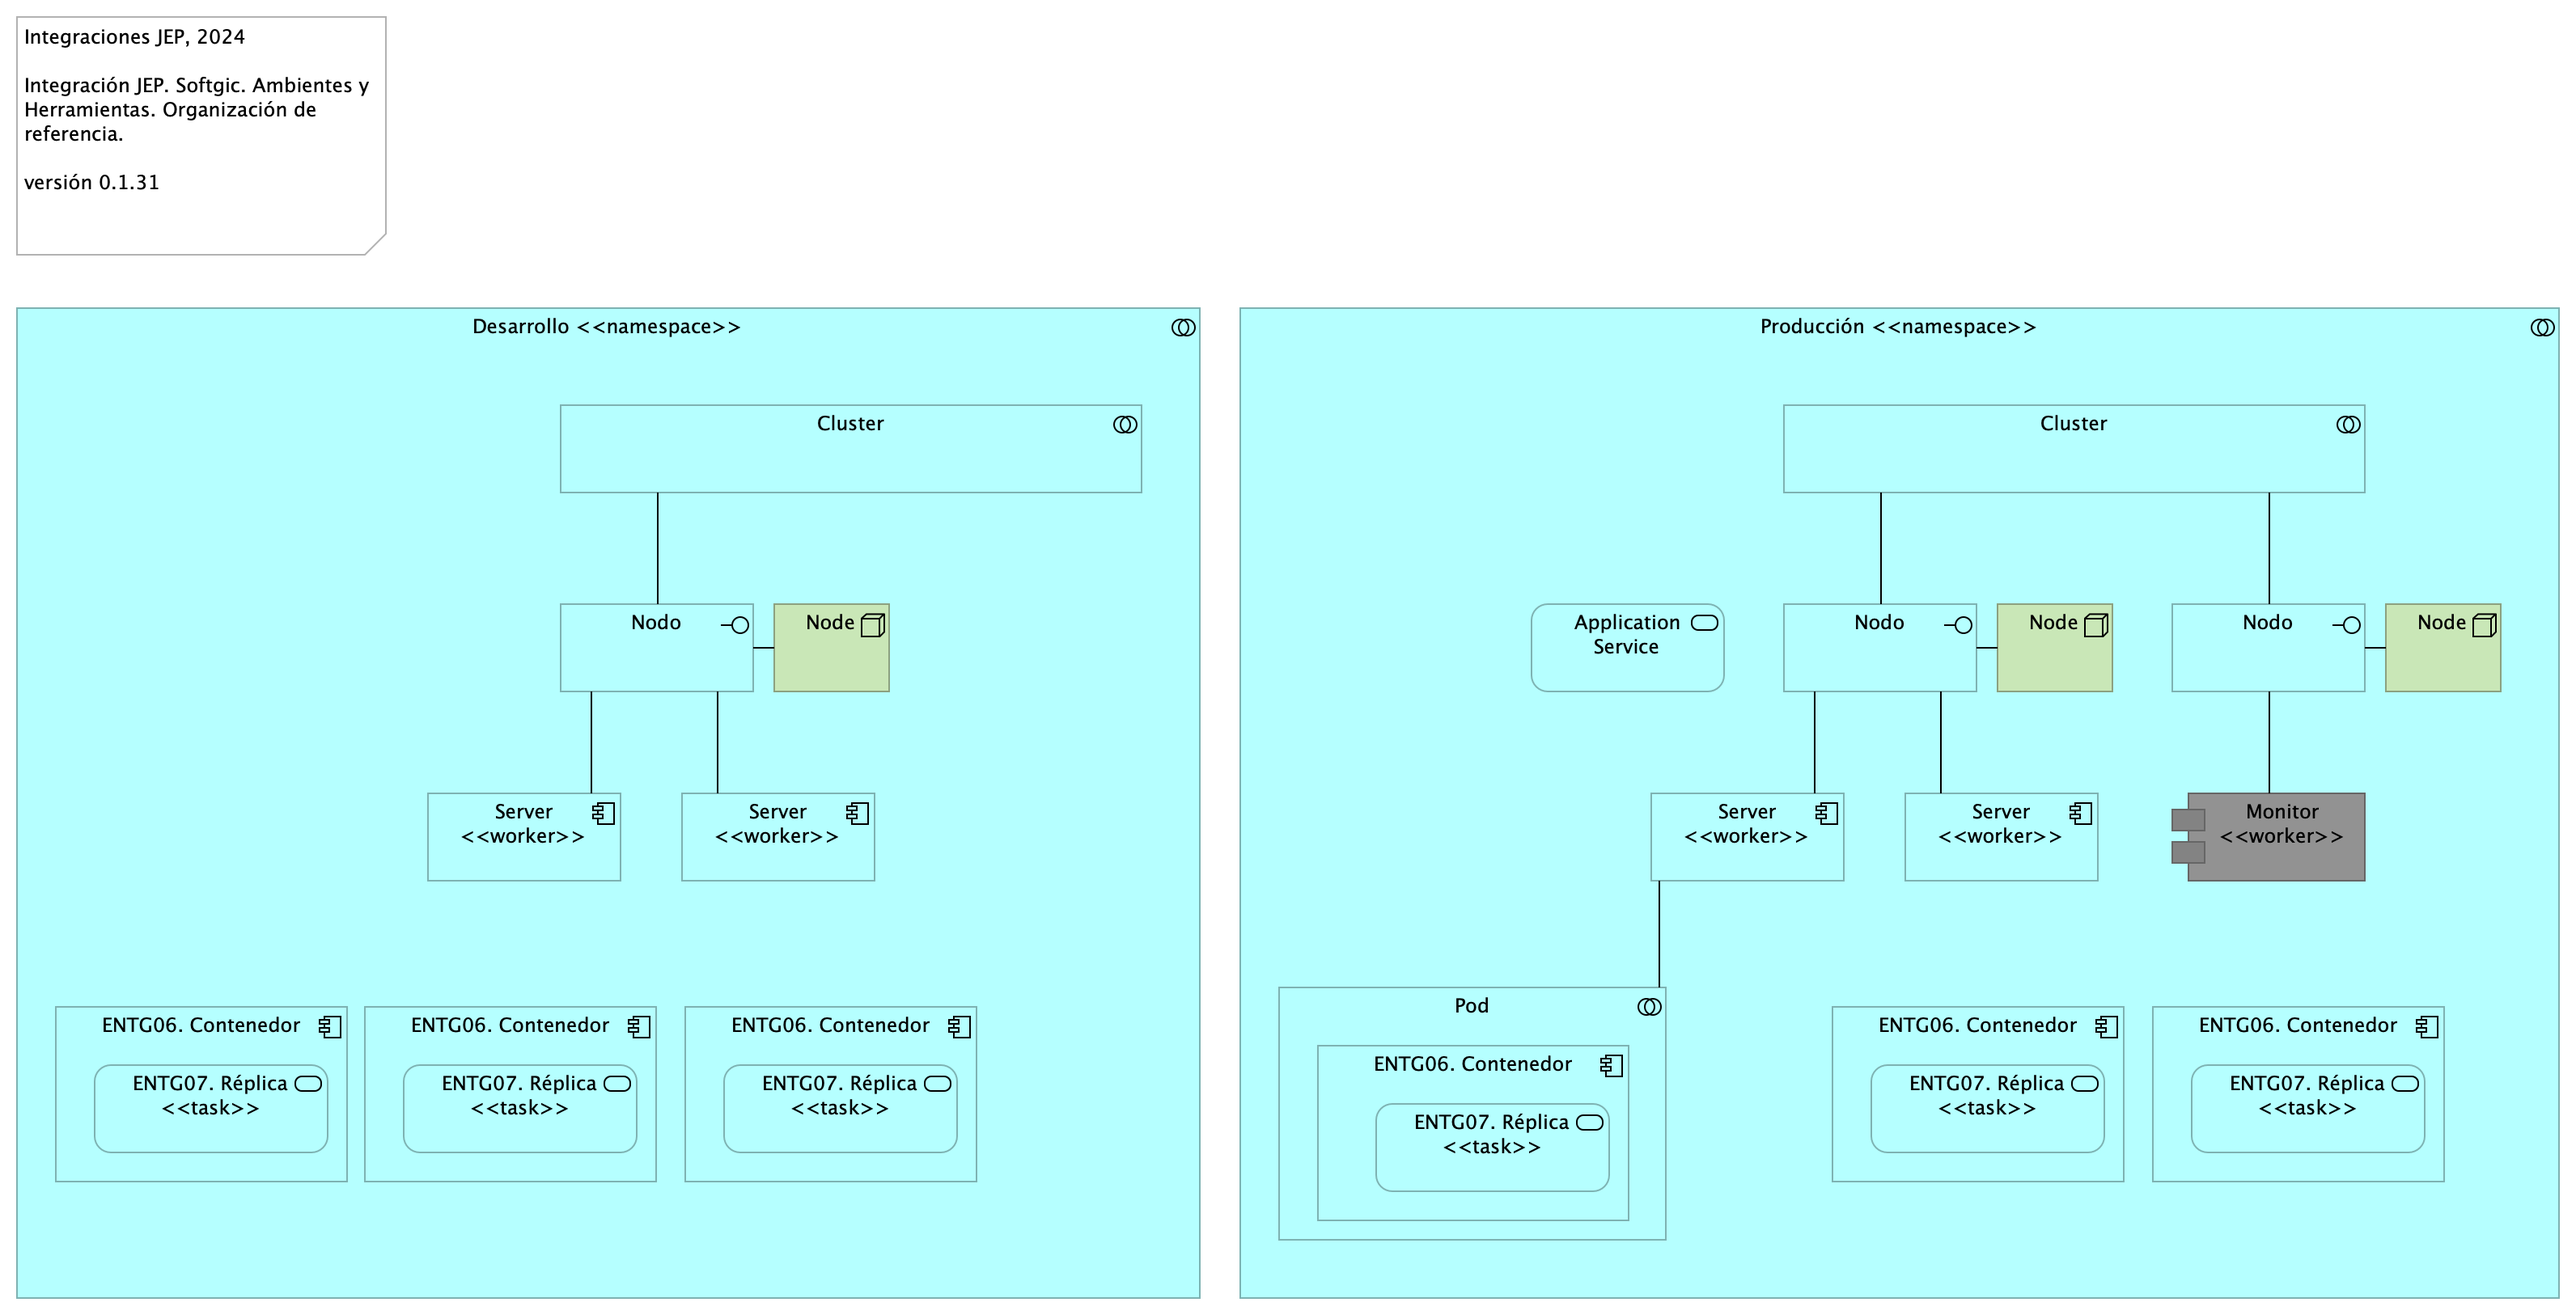
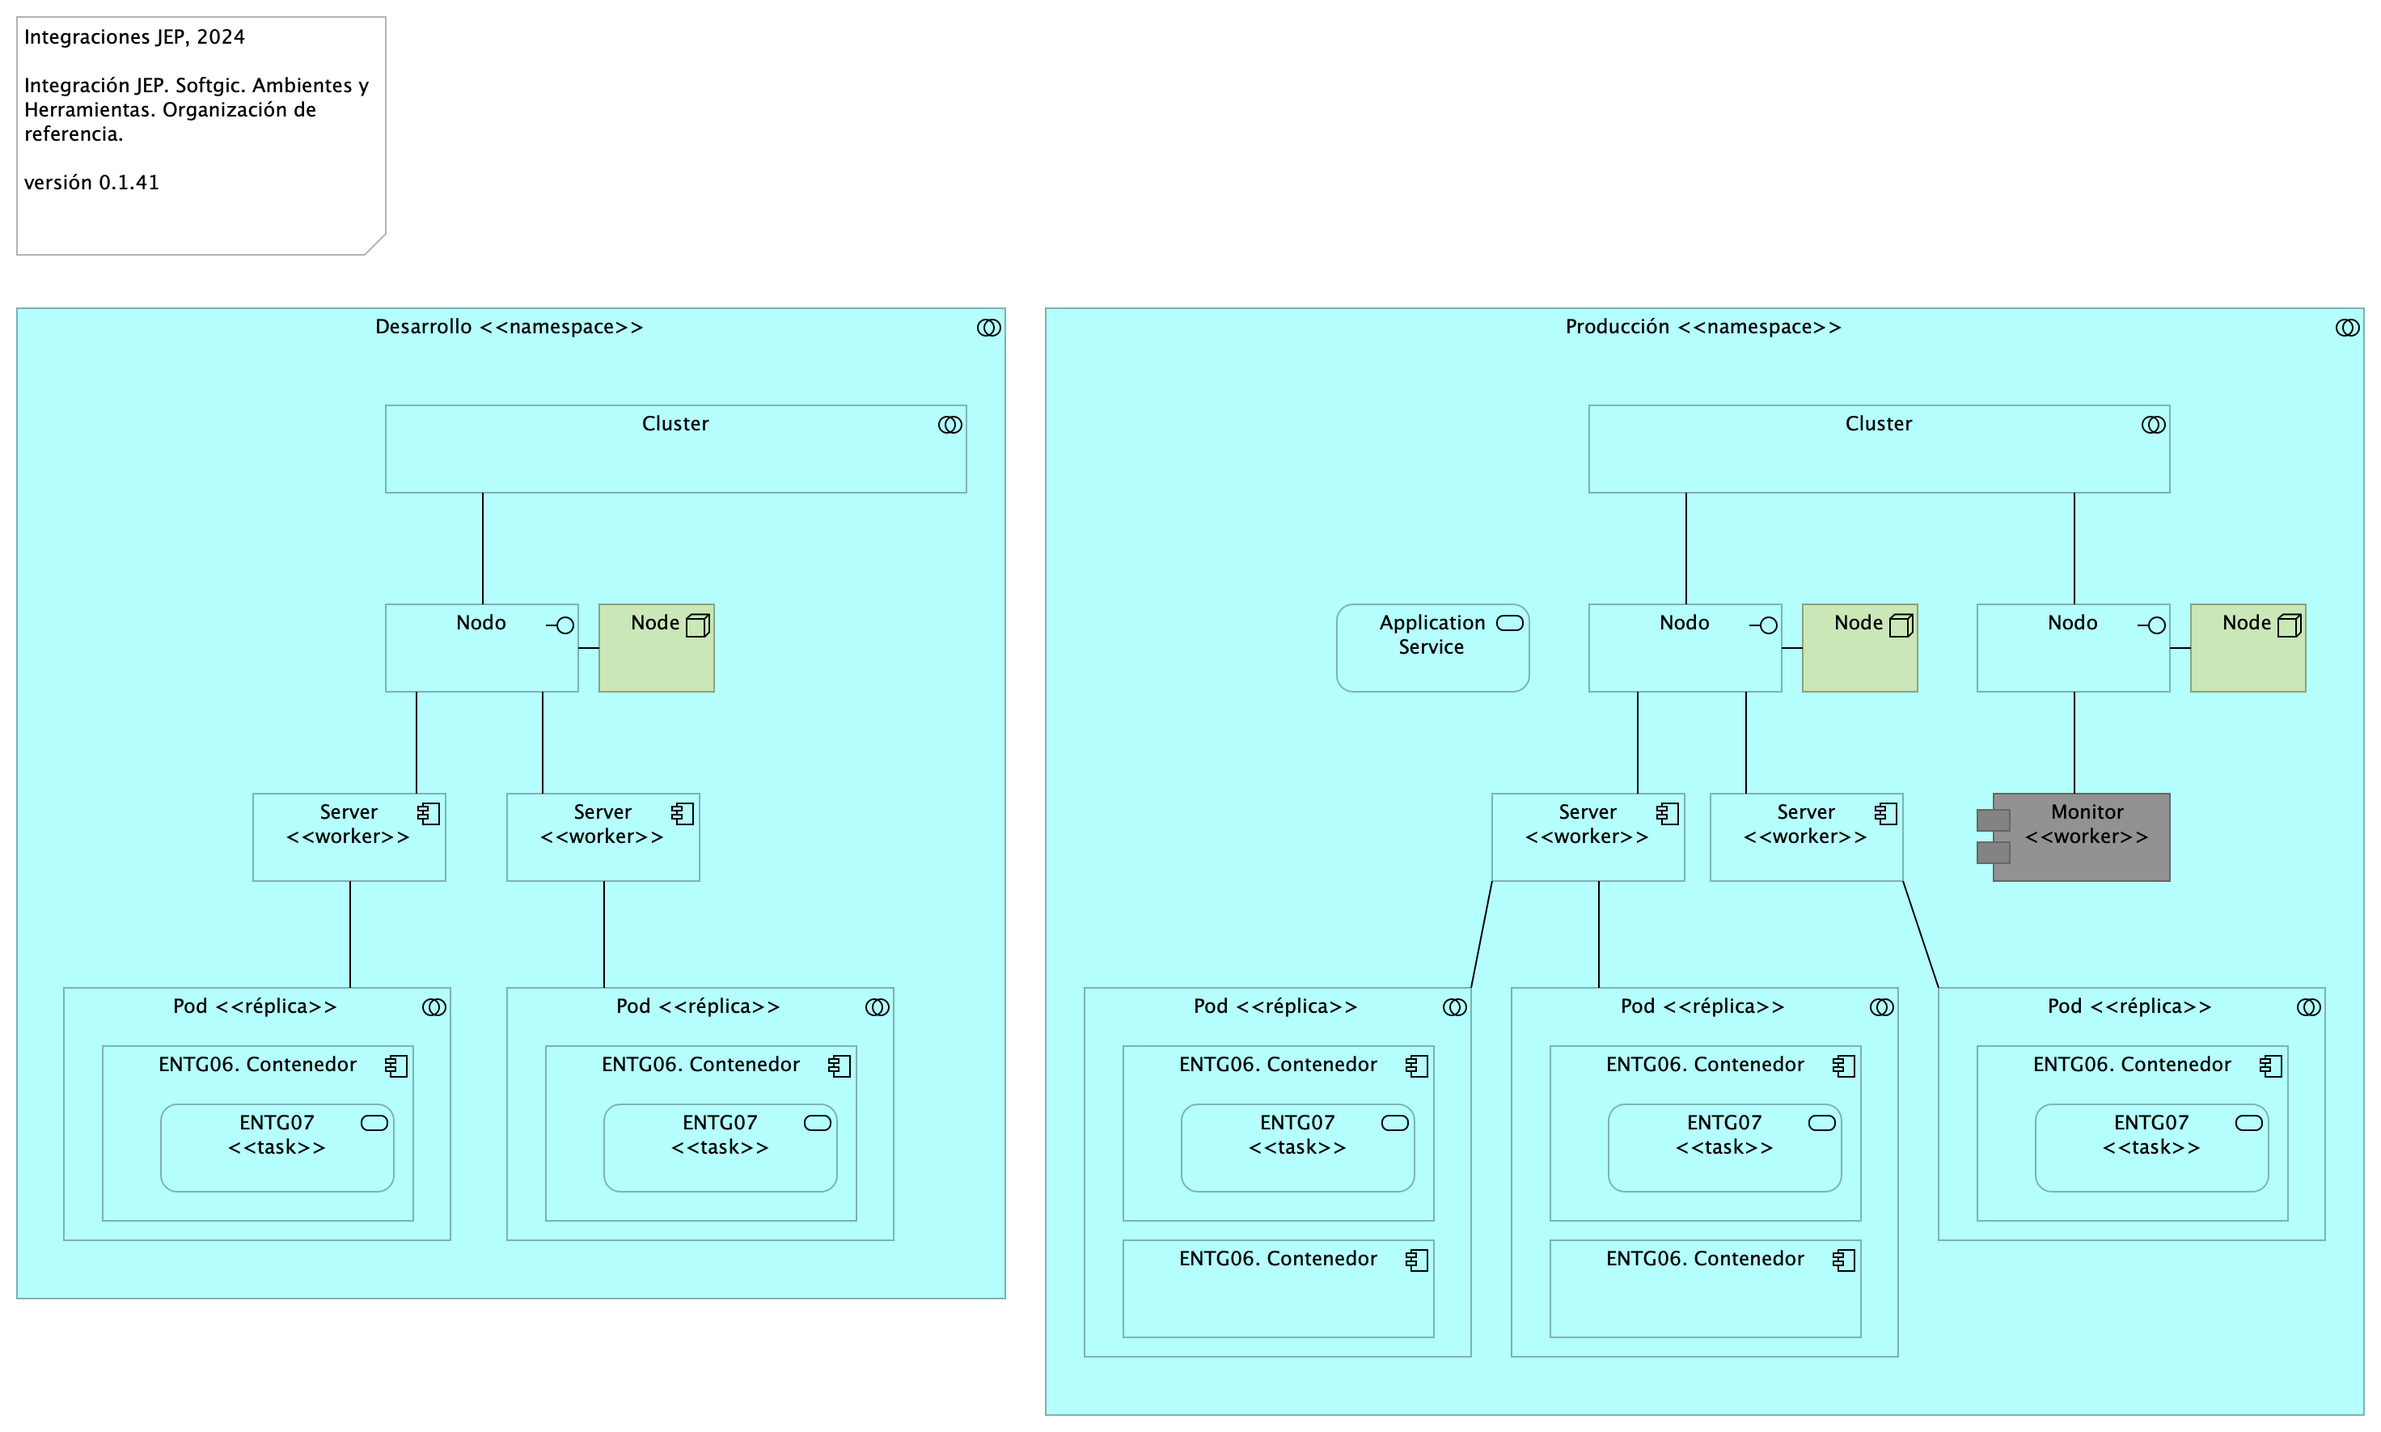
contd

diff --git a/contd/docx/01.1n.JEP.tecdoc.md b/contd/docx/01.1n.JEP.tecdoc.md
@@ -36,7 +36,12 @@ fignos-caption-name: Imagen
 tablenos-caption-name: Tabla
 ...
 
-Versión 1.$COMMIT
+Versión Actual 
+1.$COMMIT
+
+
+Versiones Anteriores
+$VERSIONES
 
 
 
@@ -297,7 +302,7 @@ El presente modelo de solución de interoperabilidad JEP, 2024, en desarrollo po
 | ENTG04. Nodo Integración JEP | Node | Cluster de ejecución de los nodos y procesos de (servicios) de integración del proyecto. |
 | ENTG05. Proceso <<worker>> | Application Process | Configuración de servicios de integración del proyecto dentro de la infraestructura tecnológica JEP. |
 | ENTG06. Contenedor | Application Component | Contenedores de los servicios de integración del proyecto desplegados en la infraestructura tecnológica JEP.  |
-| ENTG07. Réplica <<task>> | Application Service | Servicios de integración del proyecto desplegados en la infraestructura tecnológica JEP.  |
+| ENTG07 <<task>> | Application Service | Servicios de integración del proyecto desplegados en la infraestructura tecnológica JEP.  |
 | Entregables | Grouping |  |
 | Esquema de Datos | Capability |  |
 | Flujo de datos | Capability | Esta solución de interoperabilidad usa esquemas de datos predefinidos entre las integraciones.  |
@@ -340,7 +345,7 @@ Copyright (c) 2020 Phillip Beauvoir & Jean-Baptiste Sarrodie - MIT License
 Ambientes y Herramientas de Referencia JEP
 
 
-> Integraciones JEP, 2024  Integración JEP. Softgic. Ambientes y Herramientas. Organización de referencia.   versión 0.1.31  
+> Integraciones JEP, 2024  Integración JEP. Softgic. Ambientes y Herramientas. Organización de referencia.   versión 0.1.41  
 
 <br>
 
@@ -356,11 +361,11 @@ Organización de referencia de los ambientes de trabajo JEP.
 | Cluster | Application Collaboration | Orquestador de nodos y servicios (contendores) de la JEP.  |
 | Desarrollo <<namespace>> | Application Collaboration |  |
 | ENTG06. Contenedor | Application Component | Contenedores de los servicios de integración del proyecto desplegados en la infraestructura tecnológica JEP.  |
-| ENTG07. Réplica <<task>> | Application Service | Servicios de integración del proyecto desplegados en la infraestructura tecnológica JEP.  |
+| ENTG07 <<task>> | Application Service | Servicios de integración del proyecto desplegados en la infraestructura tecnológica JEP.  |
 | Monitor <<worker>> | Application Component |  |
 | Node | Node | Nodo físico donde corren los procesos del sistema operativo.  |
 | Nodo | Application Interface | Nodo lógico en donde corren los contenedores.  |
-| Pod | Application Collaboration |  |
+| Pod <<réplica>> | Application Collaboration |  |
 | Producción <<namespace>> | Application Collaboration |  |
 | Server <<worker>> | Application Component | Definición de un proceso de trabajo.  |
 
